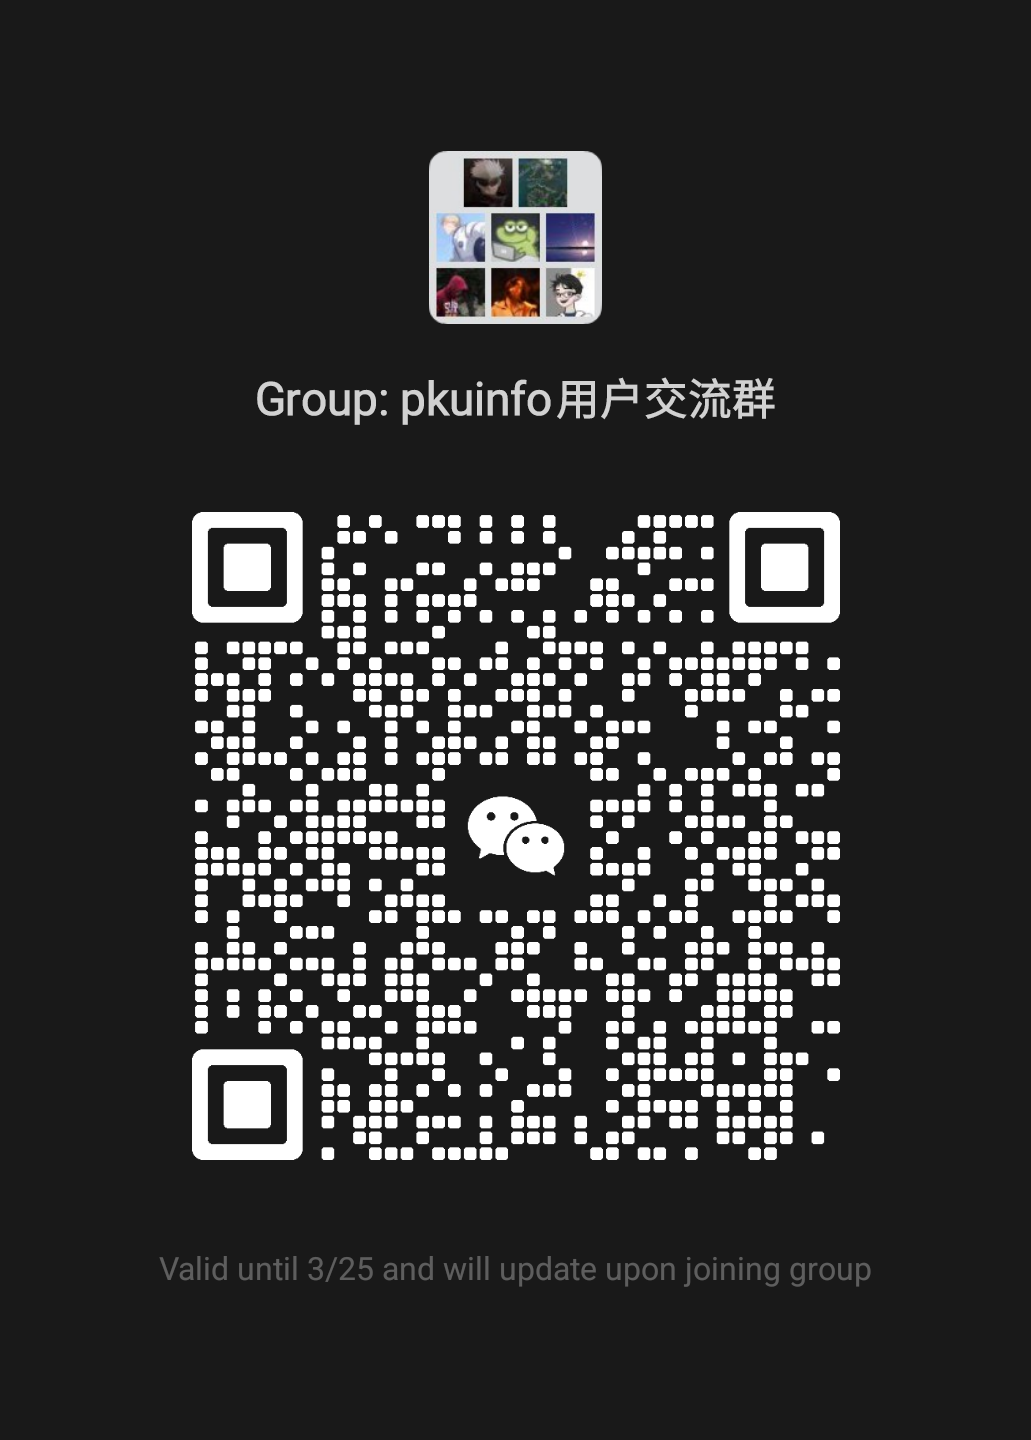
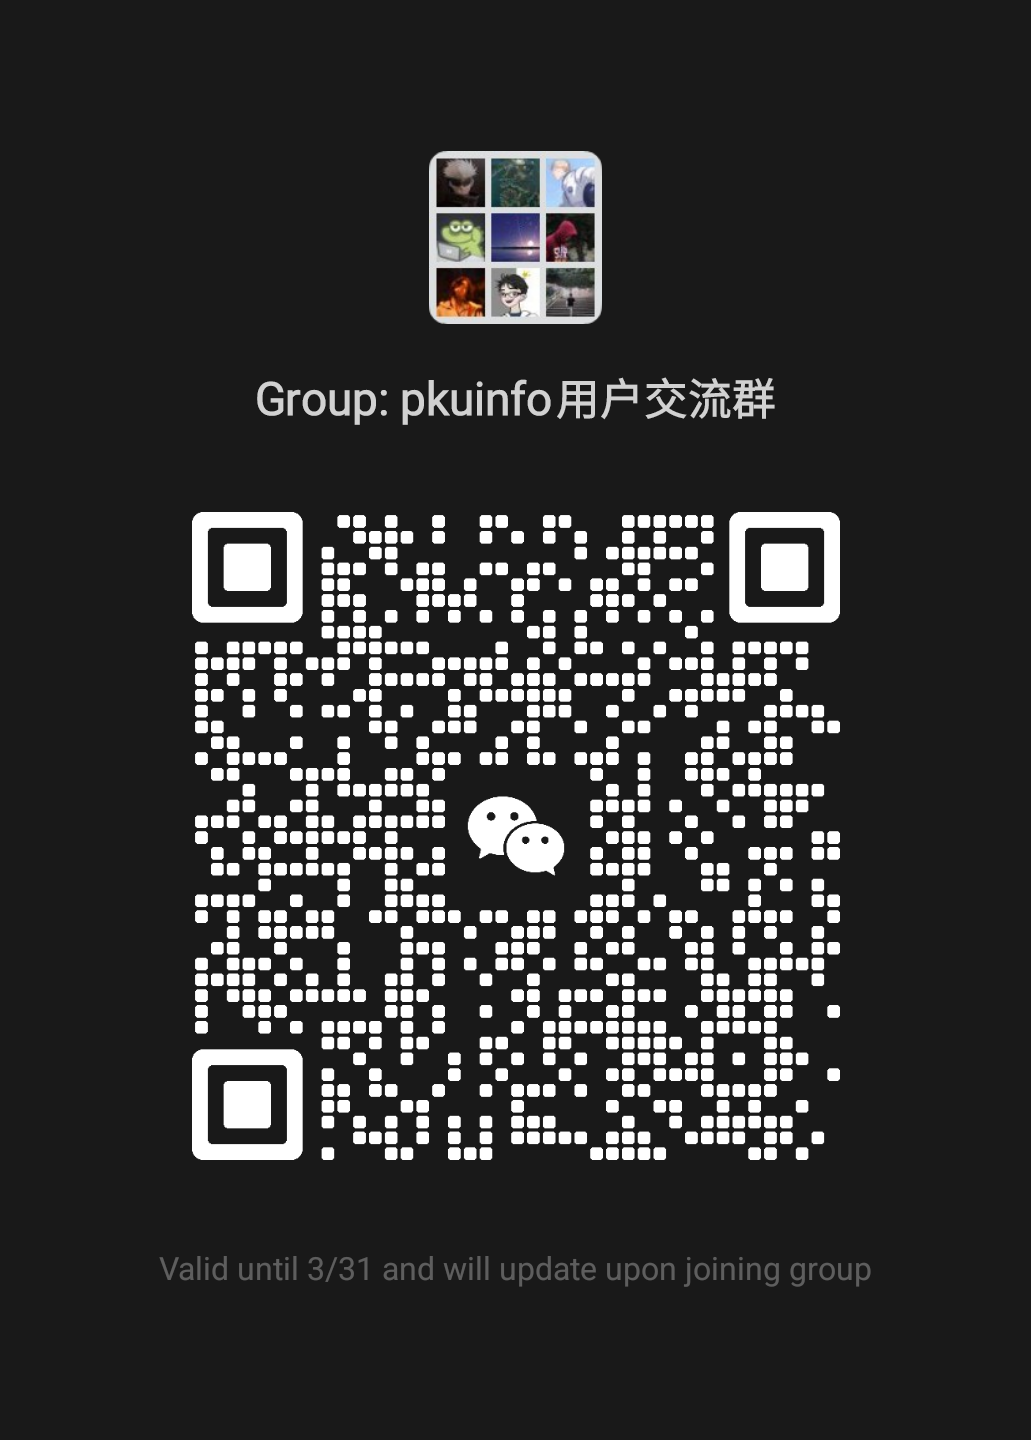
update qrcode

diff --git a/dev-dist/sw.js b/dev-dist/sw.js
@@ -82,7 +82,7 @@ define(['./workbox-b5f7729d'], (function (workbox) { 'use strict';
     "revision": "d41d8cd98f00b204e9800998ecf8427e"
   }, {
     "url": "index.html",
-    "revision": "0.297mbb3l2o"
+    "revision": "0.g93ip3hh69o"
   }], {});
   workbox.cleanupOutdatedCaches();
   workbox.registerRoute(new workbox.NavigationRoute(workbox.createHandlerBoundToURL("index.html"), {
